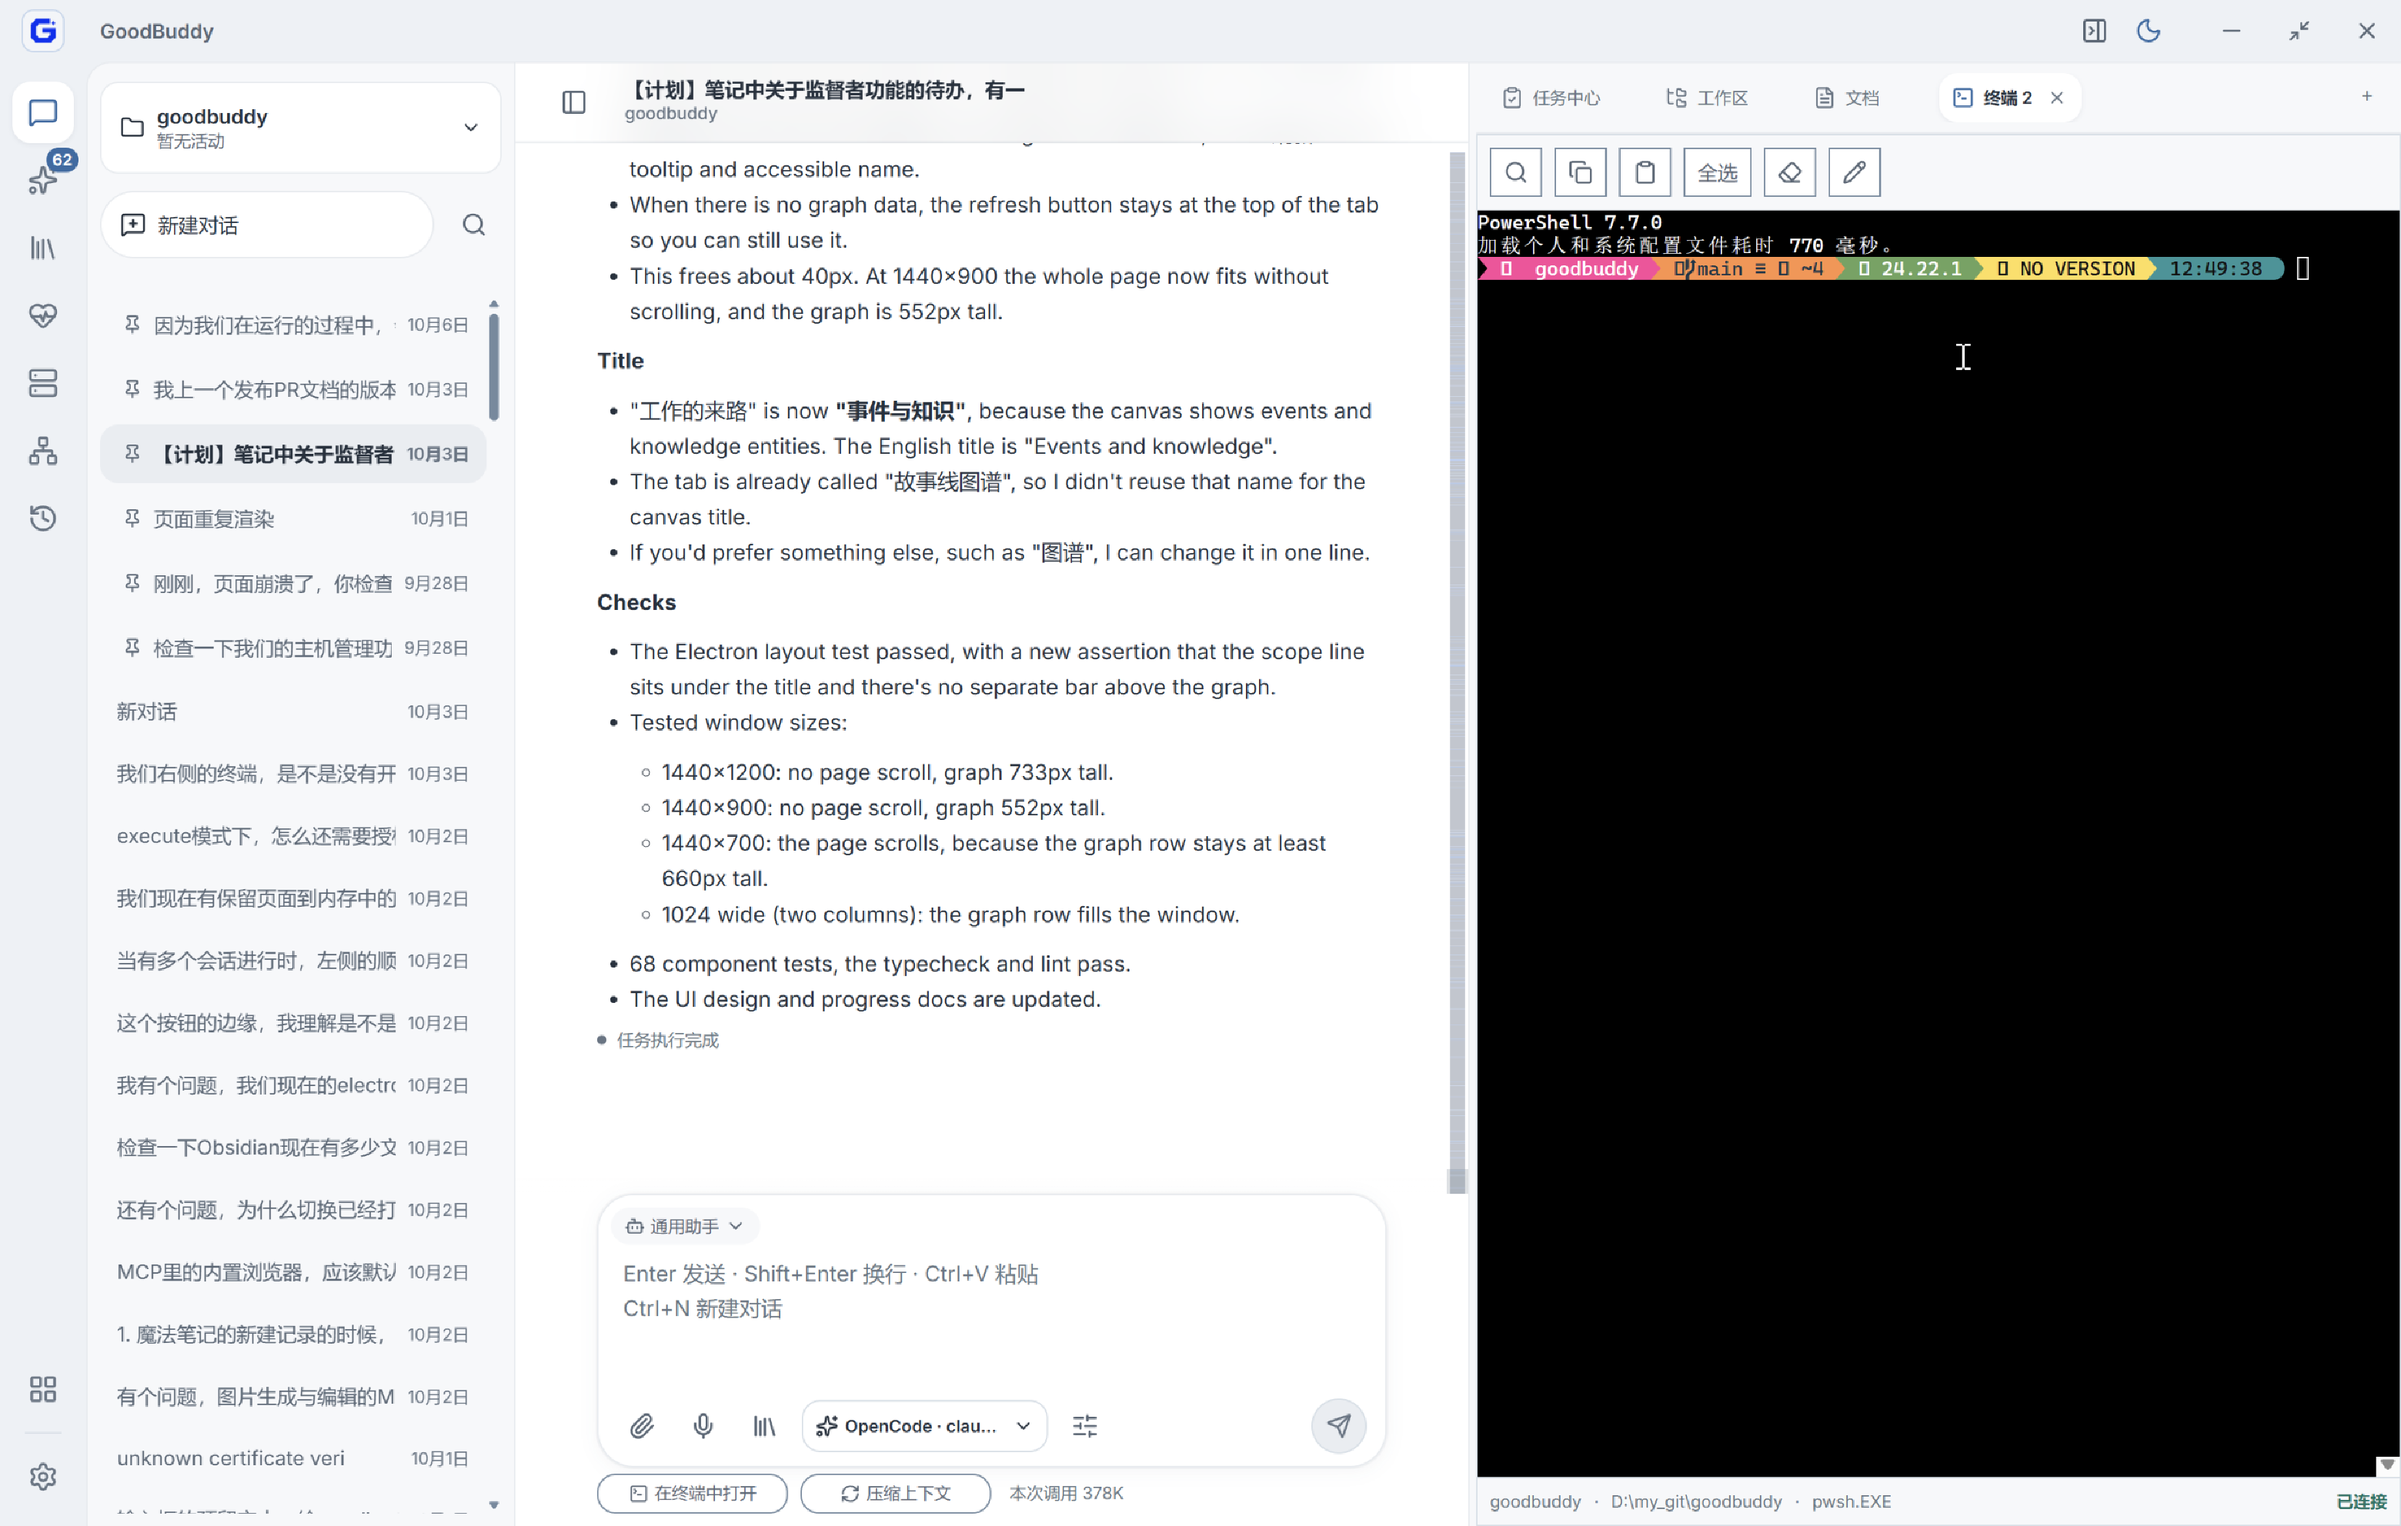
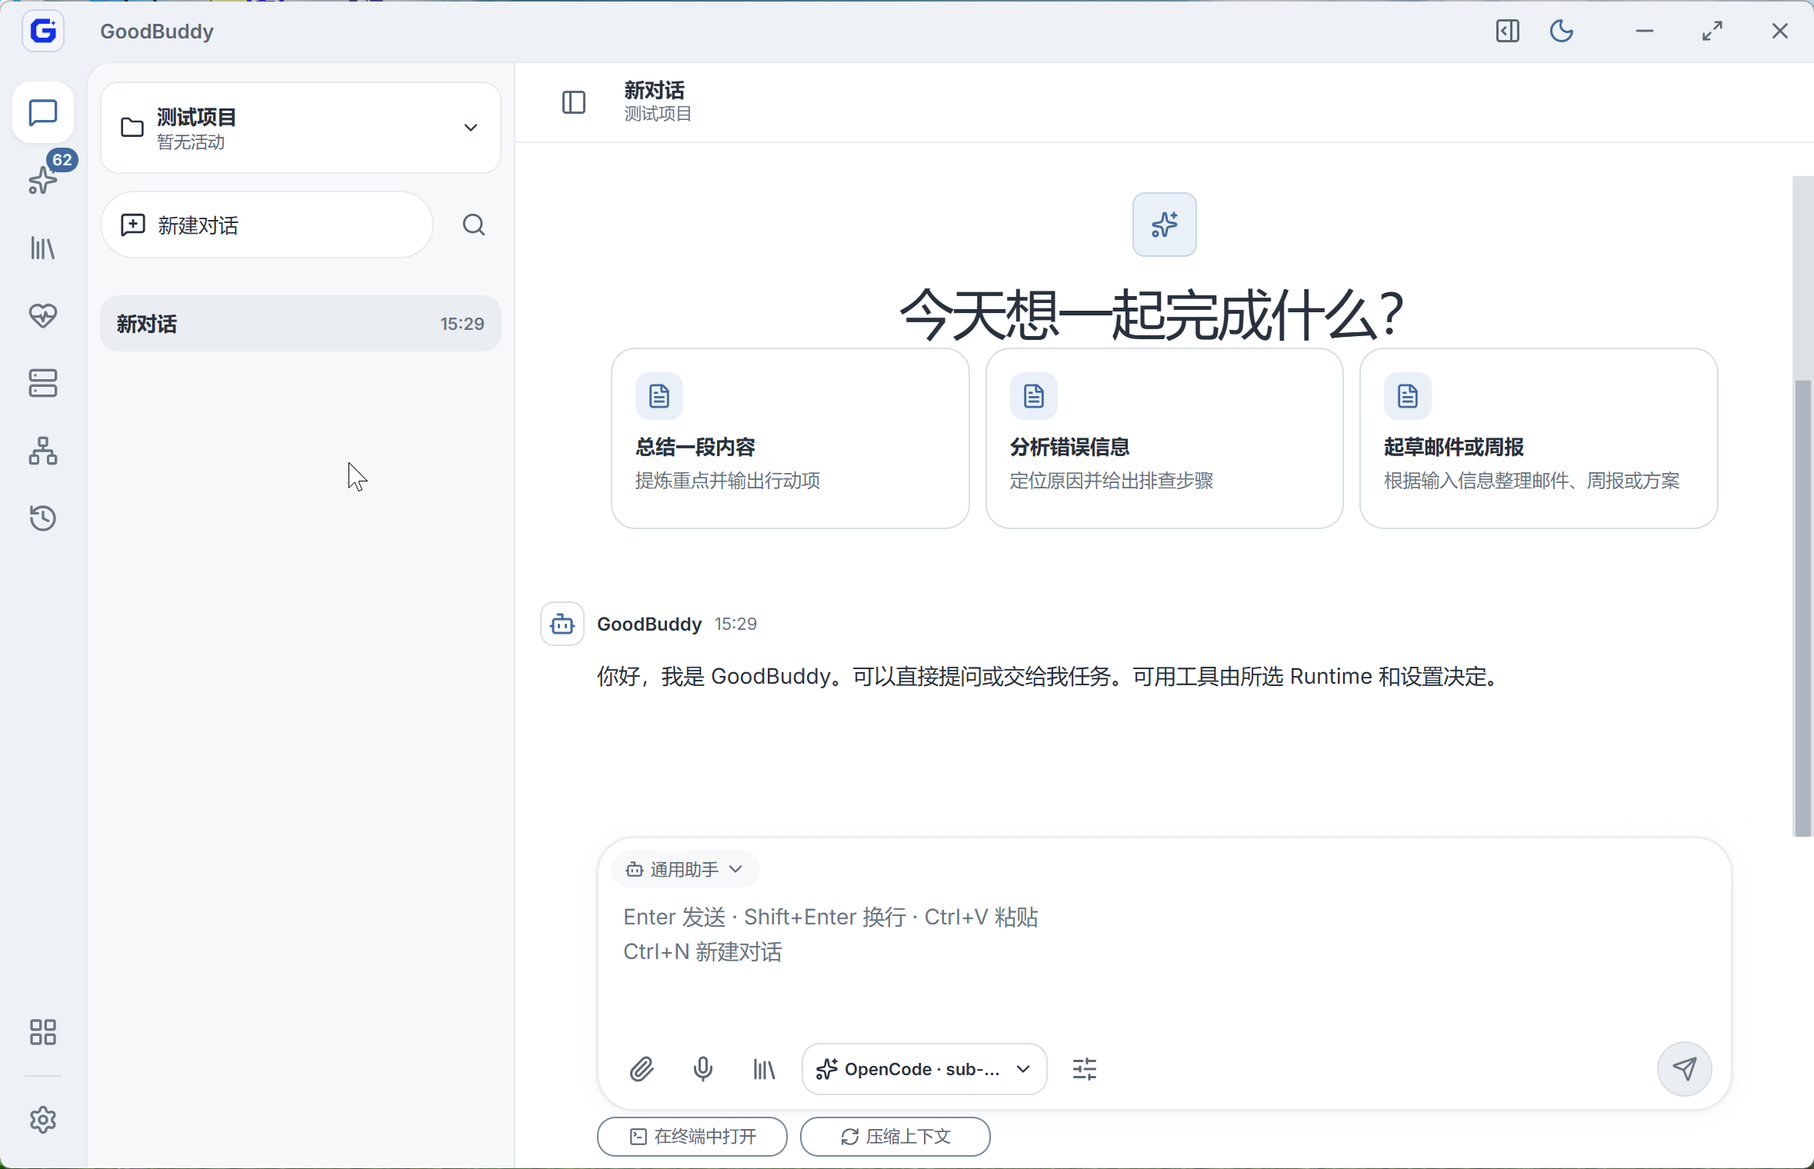
docs: refresh workbench screenshot and caption

diff --git a/docs/pr-articles/2026-10-19-unreleased/review.md b/docs/pr-articles/2026-10-19-unreleased/review.md
@@ -2,7 +2,7 @@
 
 ## 范围与状态
 
-- 配图更新：已查看并插入用户提供的 `1-new-ui.png`、`2-digiman.png`、`3-office.png`，分别放在工作台布局、数字分身创建与授权、Office 选区 AI 说明之后。保留原图，使用同目录相对链接和简短图注。数字分身图展示创建表单，Office 图展示 PPT 的“AI 润色”菜单，均不作为操作完成结果的证明。截图构建版本未单独核验；工作台图含会话标题和本机路径，数字分身图含内网服务地址，公开发布素材审阅时一并处理。下方“未拍摄新截图”等内容为历史核查记录。
+- 配图更新：已查看并插入用户提供的 `1-new-ui.png`、`2-digiman.png`、`3-office.png`，分别放在工作台布局、数字分身创建与授权、Office 选区 AI 说明之后。保留原图，使用同目录相对链接和简短图注。工作台图已替换为测试项目的新对话页面，图注与位置同步调整，不再描述右侧终端；新版图未显示原图中的历史会话列表与本机路径。数字分身图展示创建表单，Office 图展示 PPT 的“AI 润色”菜单，均不作为操作完成结果的证明。截图构建版本未单独核验；数字分身图含内网服务地址，公开发布素材审阅时一并处理。下方“未拍摄新截图”等内容为历史核查记录。
 - 正文：[GoodBuddy 更新：全新工作台、办公工具与 ShareServer 数字分身（技术预览）](./article.md)。状态：草稿，未对外发布。
 - 按用户最新要求，数字分身标为“技术预览”，同步正文标题、功能小节及索引；模型配置导入不随之标为技术预览。下方历史核查保留当时记录。
 - 建档日期：2026-10-19；本次更新：2026-11-22。

diff --git a/docs/pr-articles/2026-10-19-unreleased/article.md b/docs/pr-articles/2026-10-19-unreleased/article.md
@@ -8,11 +8,11 @@
 
 GoodBuddy 的界面从围绕会话列表展开，调整为由左侧应用栏连接各个工作页面。聊天时，项目与会话列表仍在手边；切换到知识库、魔法笔记、工作回顾、远程主机或设备共享后，会话列表让出空间，当前应用可以完整展示自己的目录、内容和操作区。阅读资料、整理笔记与返回对话，都在同一个窗口中完成。
 
+![全新工作台：左侧应用导航、项目与会话列表，以及新对话页面和底部输入区](./1-new-ui.png)
+
+*全新工作台的新对话页面，应用导航、会话列表与输入区各有清晰的位置。*
+
 右侧工作栏改为全高布局，为文件、网页和 Office 文档提供更完整的查看区域。页面标题、列表与正文的边距重新统一，输入区的内外圆角、笔记详情栏和消息分支的来源入口也一并调整。常用操作留在对应内容附近，页面之间的布局更一致。
-
-![全新工作台：左侧应用导航与会话列表，中间对话，右侧终端工作栏](./1-new-ui.png)
-
-*工作台中的应用导航、对话与终端并排显示。*
 
 应用中心同步重新整理，分为“应用”“连接器”“Skills”和“MCP”四个页签。连接飞书、企业微信、钉钉或 Obsidian，导入技能、管理 MCP，都有明确的位置。Obsidian 也采用统一卡片，可以直接启停，从设置按钮进入仓库范围、连接测试和 Runtime 分配。Skills 和 MCP 从系统设置移入应用中心，本地推理则以独立弹窗打开。
 
